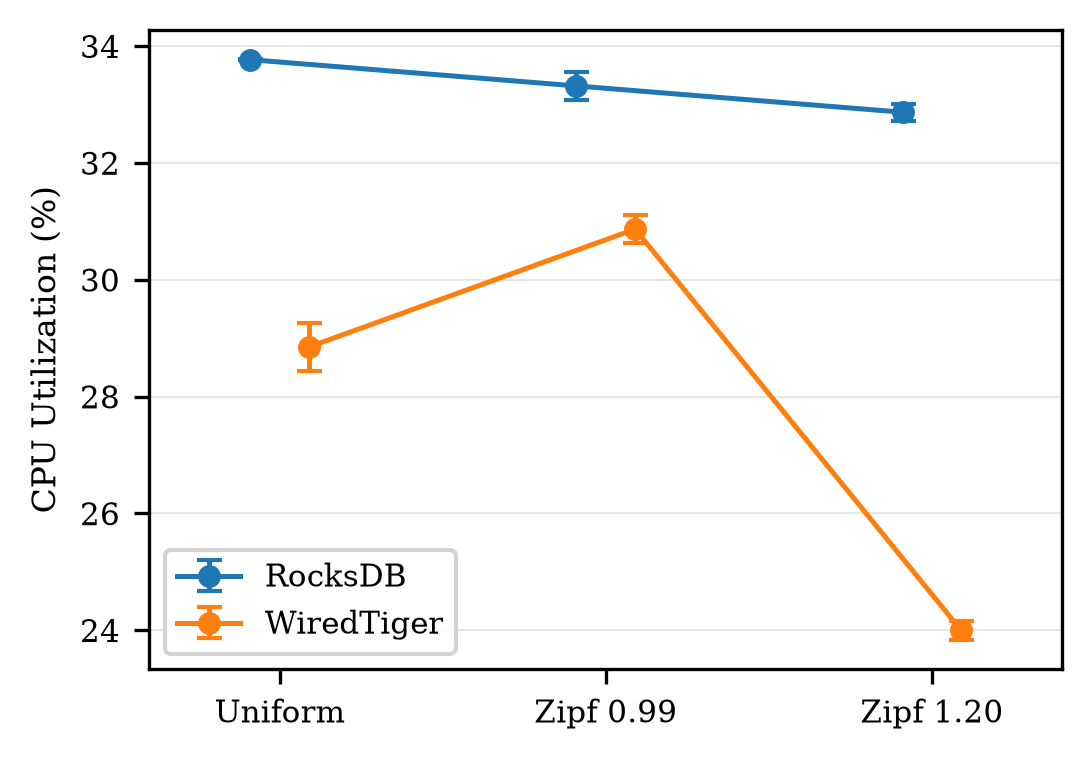
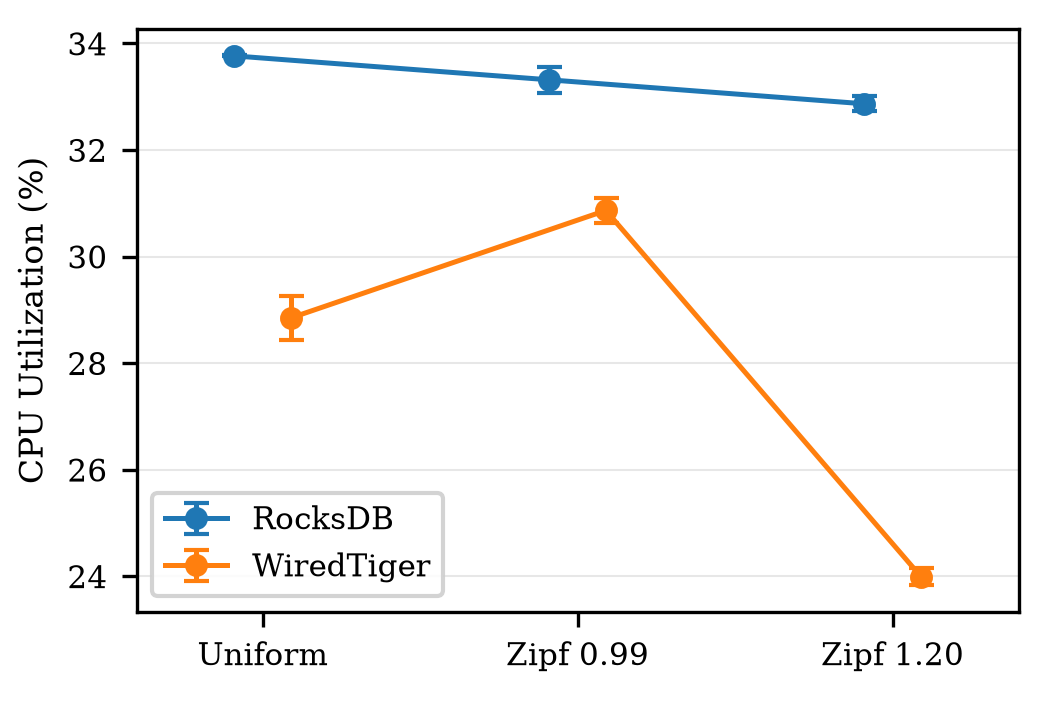
fixed result figures

diff --git a/README.md b/README.md
@@ -78,10 +78,6 @@ systemd-inhibit --what=idle:sleep:handle-suspend-key \
 
 ## Experimental Results
 
-To add the figures generated by the parsing script directly into your README.md file, you can use standard Markdown image tags linking to the generated files. For example, insert the following lines exactly where you want the charts to appear:
-
-## Experimental Results
-
 | Throughput | HD-WAF | CPU Utilization |
 | :---: | :---: | :---: |
 | <img src="results/figures/final_throughput.png" width="100%"> | <img src="results/figures/final_hd_waf.png" width="100%"> | <img src="results/figures/final_cpu_utilization.png" width="100%"> |
